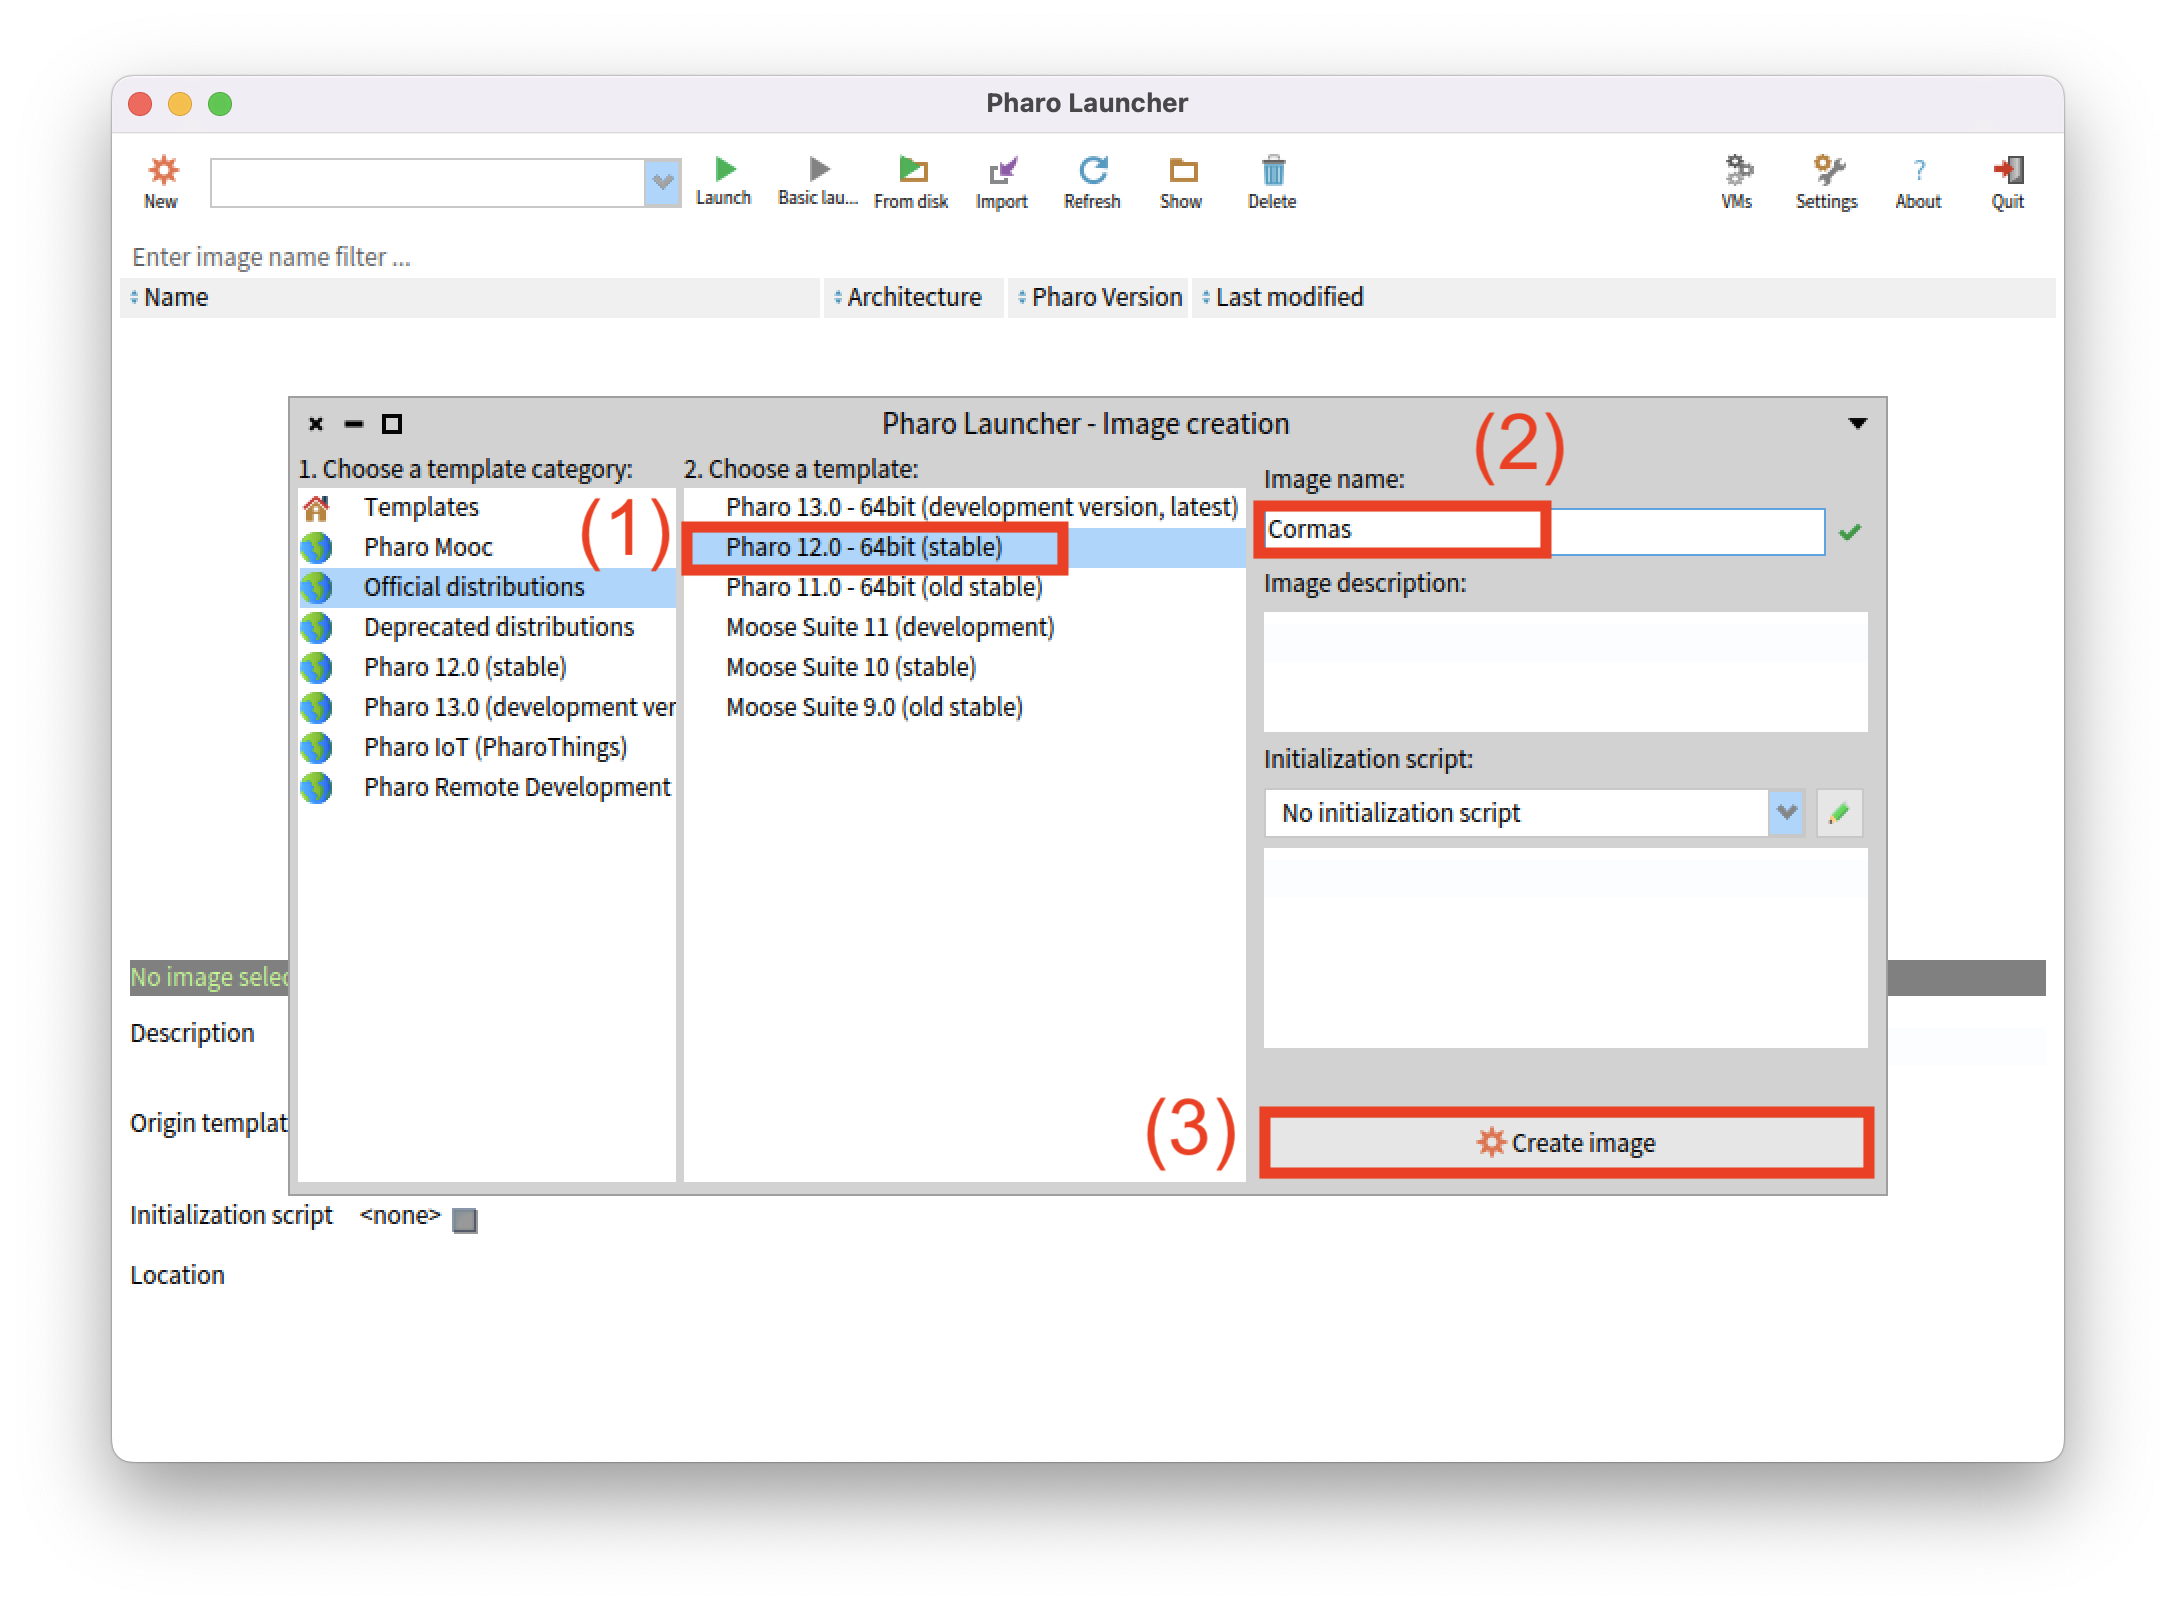
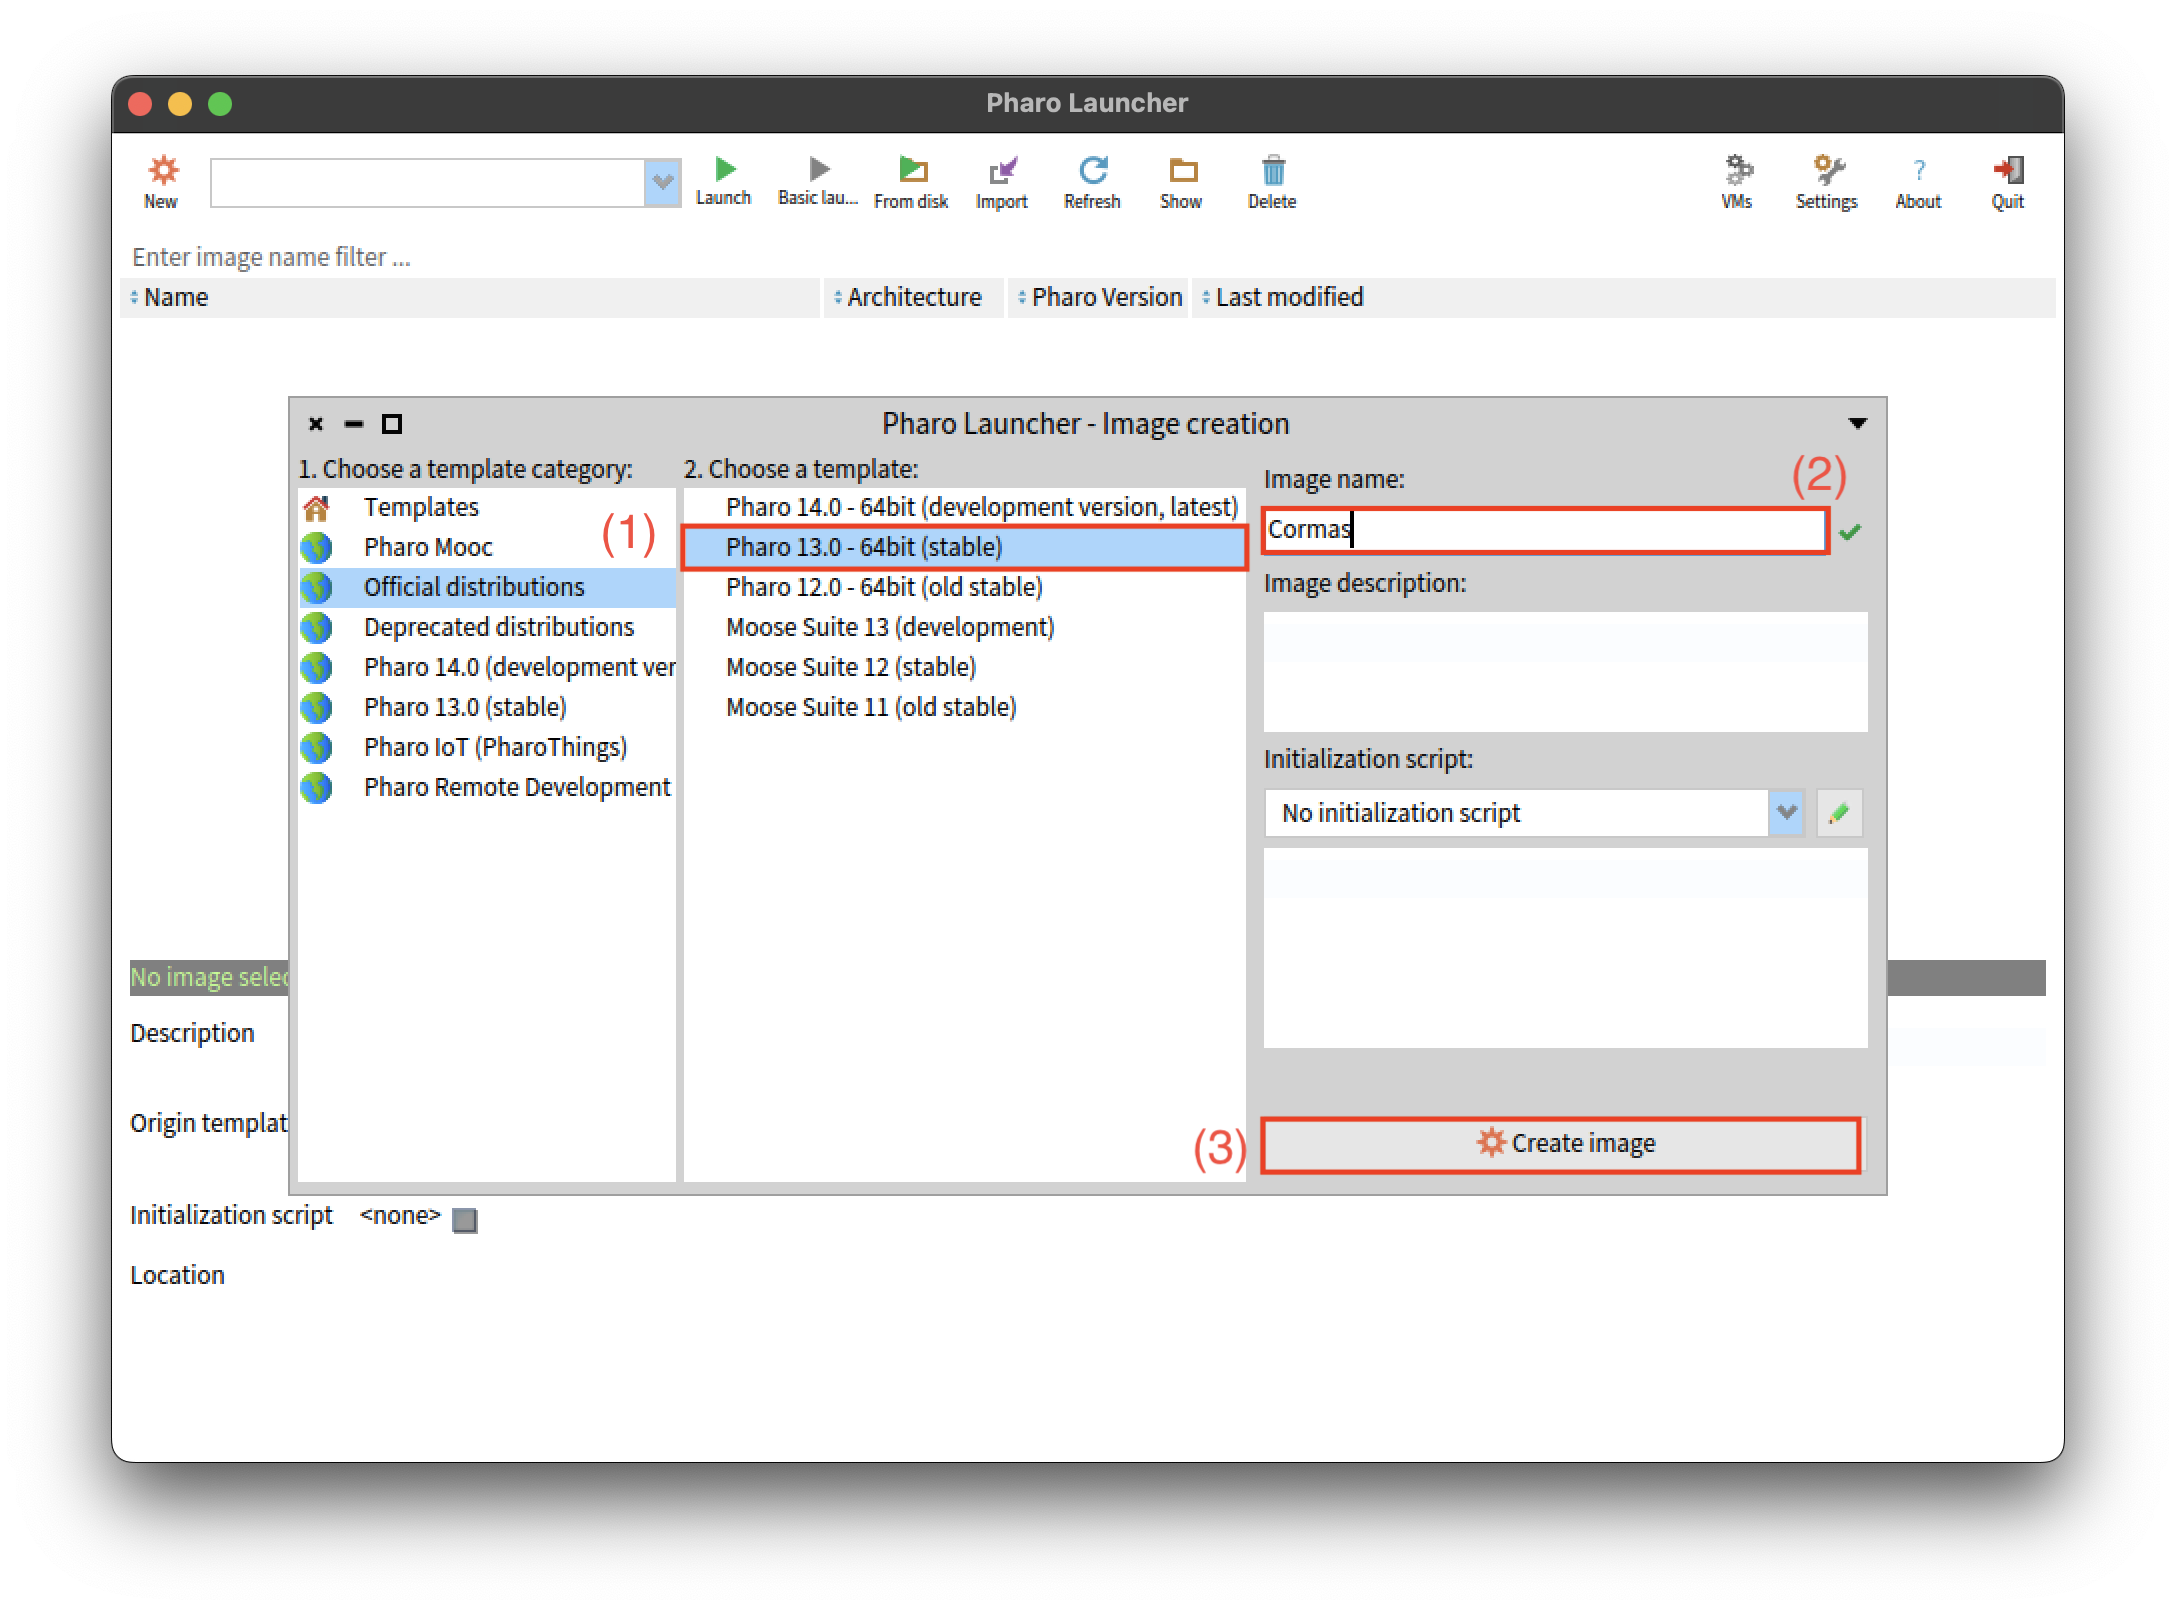
Updated the installation tutorial

diff --git a/docs/install.md b/docs/install.md
@@ -24,7 +24,7 @@ The easiest way to install and run Pharo is with **Pharo Launcher** - an applica
 
 ### Step 2. Create a Pharo image
 	
-Cormas always supports three latest versions of Pharo: the development version (at the moment, it's Pharo 13), the stable version (Pharo 12), and the old stable version (Pharo 11). Unless you have a reason to do otherwise, we recommend you to always use the latest stable version, in this case, Pharo 12.
+Cormas always supports three latest versions of Pharo: the development version (at the moment, it's Pharo 14), the stable version (Pharo 13), and the old stable version (Pharo 12). Unless you have a reason to do otherwise, we recommend you to always use the latest stable version, in this case, Pharo 13.
 In the dialog window of Pharo Launcher, select the version of Pharo **(1)**, give your image a name **(2)**, and then click on the _"Create image"_ button **(3)**.
 
 > **Note:** Pharo Launcher automatically detects the architecture of your processor: 64-bit or 32-bit. In case if you see both types of images offered to you by Pharo Launcher, you must manually check what of processor you have. Most modern computers have 64-bit processors.
